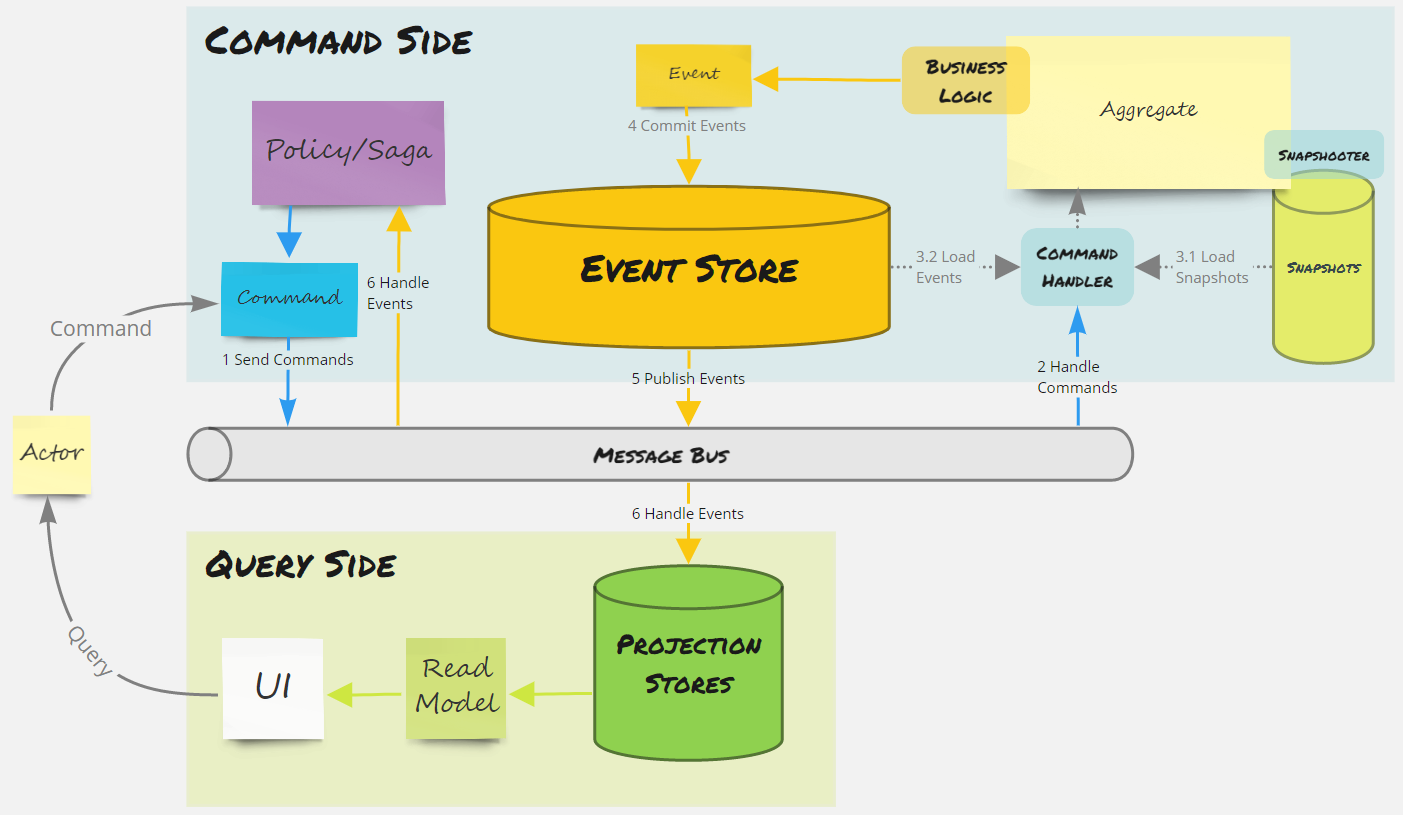
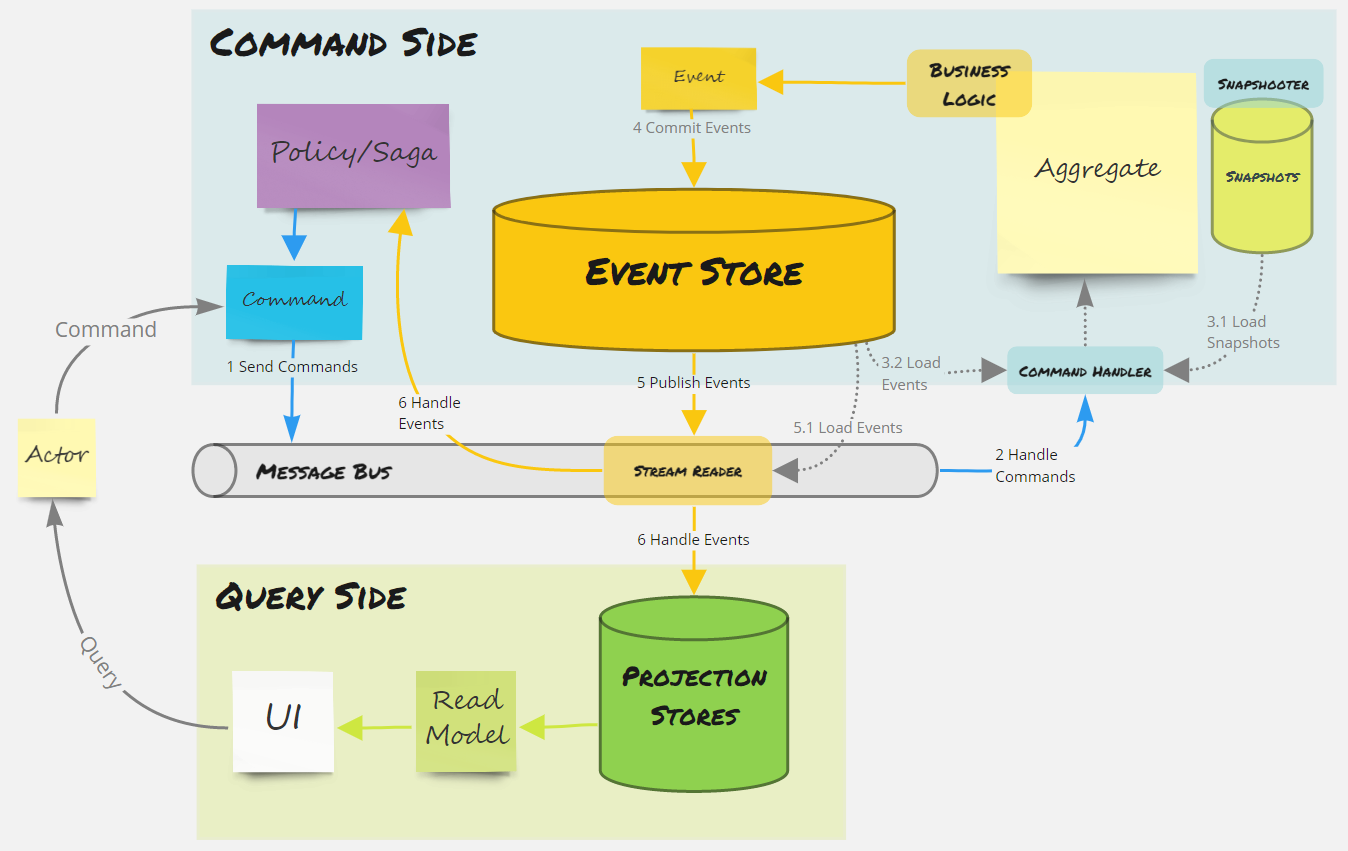
added poll method

Changed region(s): [[0.0312, 0.0307, 0.997, 1.0], [0.0, 0.4601, 0.0935, 0.8282], [0.1246, 0.0307, 0.3739, 0.092]]

diff --git a/src/Bus.js b/src/Bus.js
@@ -12,7 +12,7 @@ class CommandMapper {
     this._map_ = {}
     aggregates.forEach(aggregateType => {
       if (!(aggregateType.prototype instanceof Aggregate)) throw Err.preconditionError(`${aggregateType.name} is not a subclass of Aggregate`)
-      const aggregate = Aggregate.create(null, aggregateType)
+      const aggregate = Aggregate.create(aggregateType)
       for(let command of Object.keys(aggregate.commands)) {
         this._map_[command] = aggregateType
       }
@@ -23,6 +23,30 @@ class CommandMapper {
     const aggregateType = this._map_[command]
     if (!aggregateType) throw Err.invalidArguments(`command ${command} not found`)
     return aggregateType
+  }
+}
+
+function _push (bus, tenant, stream, events = null, load = false) {
+  const readers = bus._readers_[tenant]
+  if (readers) {
+    const reader = readers[stream]
+    if (reader) bus._push_ = bus._push_.then(() => reader._push(events, load))
+  }
+}
+
+function _catchup (bus, tenant) {
+  const loop = reader => {
+    const catchup = async resolve => {
+      if (await reader._catchup()) setTimeout(catchup, 1000, resolve)
+      else resolve()
+    }
+    return new Promise(catchup)
+  }
+  const readers = bus._readers_[tenant]
+  if (readers) {
+    for(let key of Object.keys(readers)) {
+      bus._catchup_ = bus._catchup_.then(() => loop(readers[key]))
+    }
   }
 }
 
@@ -70,39 +94,17 @@ module.exports = class Bus {
       reader._subscribe(handler)
     }
     this._readers_[tenant] = readers
-    this._catchup(tenant)
+    _catchup(this, tenant)
   }
 
   /**
-   * Pushes events to handlers
+   * Polls stream for new events to push
    * 
-   * @param {String} tenant Tenant id
+   * @param {String} tenant Tenant Id
    * @param {String} stream Stream name
-   * @param {Array} events Optional array of newly stored events to avoid loading from store 
-   * @returns {Promise} Promise to push events
    */
-  _push (tenant, stream, events = null) {
-    const readers = this._readers_[tenant]
-    if (readers) {
-      const reader = readers[stream]
-      if (reader) this._push_ = this._push_.then(() => reader._push(events))
-    }
-  }
-
-  _catchup (tenant) {
-    const loop = reader => {
-      const catchup = async resolve => {
-        if (await reader._catchup()) setTimeout(catchup, 1000, resolve)
-        else resolve()
-      }
-      return new Promise(catchup)
-    }
-    const readers = this._readers_[tenant]
-    if (readers) {
-      for(let key of Object.keys(readers)) {
-        this._catchup_ = this._catchup_.then(() => loop(readers[key]))
-      }
-    }
+  async poll (tenant, stream) {
+    await _push(this, tenant, stream, null, true)
   }
 
   /**
@@ -150,7 +152,7 @@ module.exports = class Bus {
     this._tracer_.trace(() => ({ msg: 'after committing', events }))
 
     // push new events
-    this._push(actor.tenant, aggregateType.stream, events)
+    _push(this, actor.tenant, aggregateType.stream, events)
 
     return aggregate
   }

diff --git a/src/firestore/FirestoreEventStore.js b/src/firestore/FirestoreEventStore.js
@@ -33,7 +33,7 @@ class FirestoreSnapshooter {
 
   async load (tenant, aggregateType, aggregateId) {
     const doc = await this._db_.collection(aggregatesPath(tenant, aggregateType)).doc(aggregateId).get()
-    return doc.exists ? Aggregate.create(this, aggregateType, doc.data()) : null
+    return doc.exists ? Aggregate.create(aggregateType, doc.data()) : null
   }
 
   async save (tenant, aggregate) {
@@ -53,7 +53,7 @@ module.exports = class FirestoreEventStore extends IEventStore {
 
   async loadAggregate (tenant, aggregateType, aggregateId) {
     if (aggregateId) {
-      const aggregate = (this._snapshooter_ ? await this._snapshooter_.load(tenant, aggregateType, aggregateId) : null) || Aggregate.create(this, aggregateType, { _aggregate_id_: aggregateId })
+      const aggregate = (this._snapshooter_ ? await this._snapshooter_.load(tenant, aggregateType, aggregateId) : null) || Aggregate.create(aggregateType, { _aggregate_id_: aggregateId })
       
       // load events that ocurred after snapshot was taken
       const aggregateVersionPadder = new Padder(aggregateType.maxEvents)
@@ -69,7 +69,7 @@ module.exports = class FirestoreEventStore extends IEventStore {
     }
     // return new aggregate with generated id
     const newAggRef = this._db_.collection(aggregatesPath(tenant, aggregateType)).doc()
-    return Aggregate.create(this, aggregateType, { _aggregate_id_: newAggRef.id })
+    return Aggregate.create(aggregateType, { _aggregate_id_: newAggRef.id })
   }
 
   async loadEvents (tenant, stream, fromVersion, limit) {

diff --git a/src/Aggregate.js b/src/Aggregate.js
@@ -5,12 +5,11 @@ const Err = require('./Err')
 module.exports = class Aggregate {
   /**
    * Aggregate factory method
-   * @param {Object} store Store where aggregate is created
    * @param {Object} aggregateType subclass of Aggregate
    * @param {Object} object with optional payload attributes including _aggregate_id_ and _aggregate_version_
    * @returns {Aggregate} instance of aggregateType
    */
-  static create (store, aggregateType, { _aggregate_id_ = '', _aggregate_version_ = -1, ...payload } = {}) {
+  static create (aggregateType, { _aggregate_id_ = '', _aggregate_version_ = -1, ...payload } = {}) {
     const aggregate = new aggregateType.prototype.constructor()
     Object.assign(aggregate, payload)
     Object.defineProperty(aggregate, '_aggregate_id_', { value: _aggregate_id_, writable: !_aggregate_id_, enumerable: true }) 

diff --git a/test/basic/streams.spec.js b/test/basic/streams.spec.js
@@ -97,4 +97,15 @@ describe('Streams', () => {
     let counter6 = await firestore.doc('/counters/counter61').get()
     counter6.data().eventCount.should.equal(17)
   })
+
+  it('should poll until done', async () => {
+    let bus3 = setup([Calculator], true, new ConsoleTracer())
+    await bus3.subscribe('tenant1', [new EventCounter(firestore, 'counter71')], 20)
+    await bus3.poll('tenant1', 'main')
+    await bus.command(actor1, 'AddNumbers', { number1: 1, number2: 2, aggregateId: 'cxz' })
+    await bus3.poll('tenant1', 'main')
+    await bus3.flush()
+    let counter7 = await firestore.doc('/counters/counter71').get()
+    counter7.data().eventCount.should.equal(18)
+  })
 })

diff --git a/src/sub/StreamReader.js b/src/sub/StreamReader.js
@@ -25,10 +25,12 @@ module.exports = class StreamReader {
 
   /**
    * Pushes current window of events to handlers and commits cursors after sync
-   * @param {Array} events (Optional)
+   * 
+   * @param {Array} events (Optional) real time events to be appended at the end of current window
+   * @param {Boolean} load (Optional) flag to force loading window when empty (poll for new events)
    */
-  async _push (events) {
-    await this._current_._push(this, events)
+  async _push (events, load = false) {
+    await this._current_._push(this, events, load)
     if (this._current_._version_ > this._version_) this._version_ = this._current_._version_
   }
 
